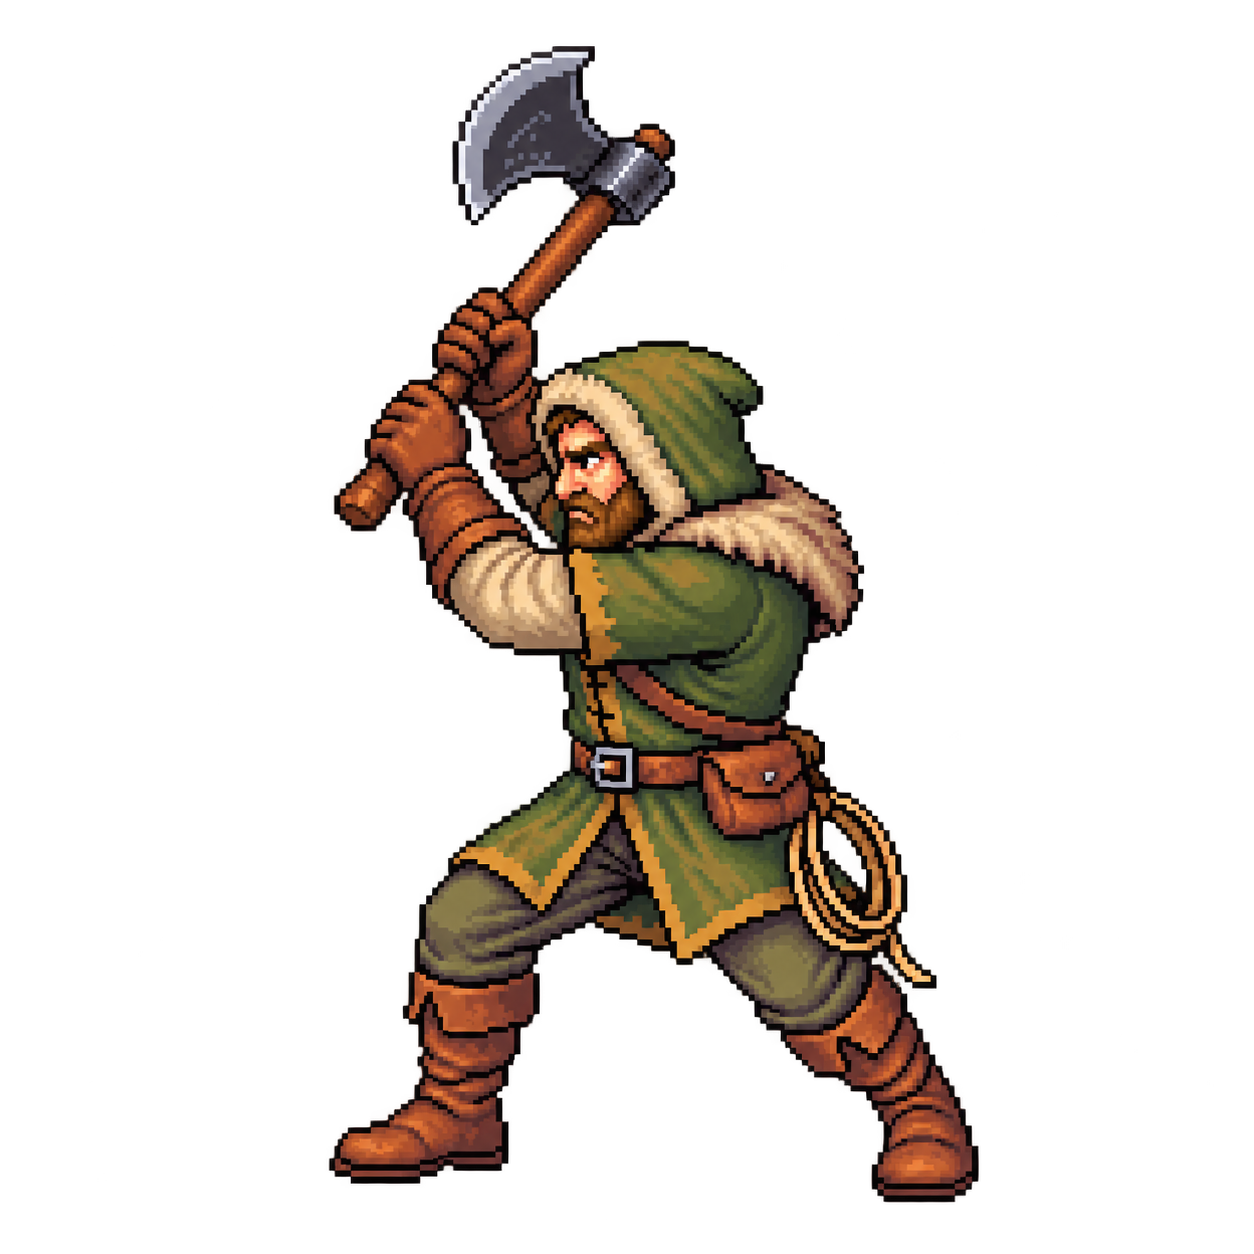
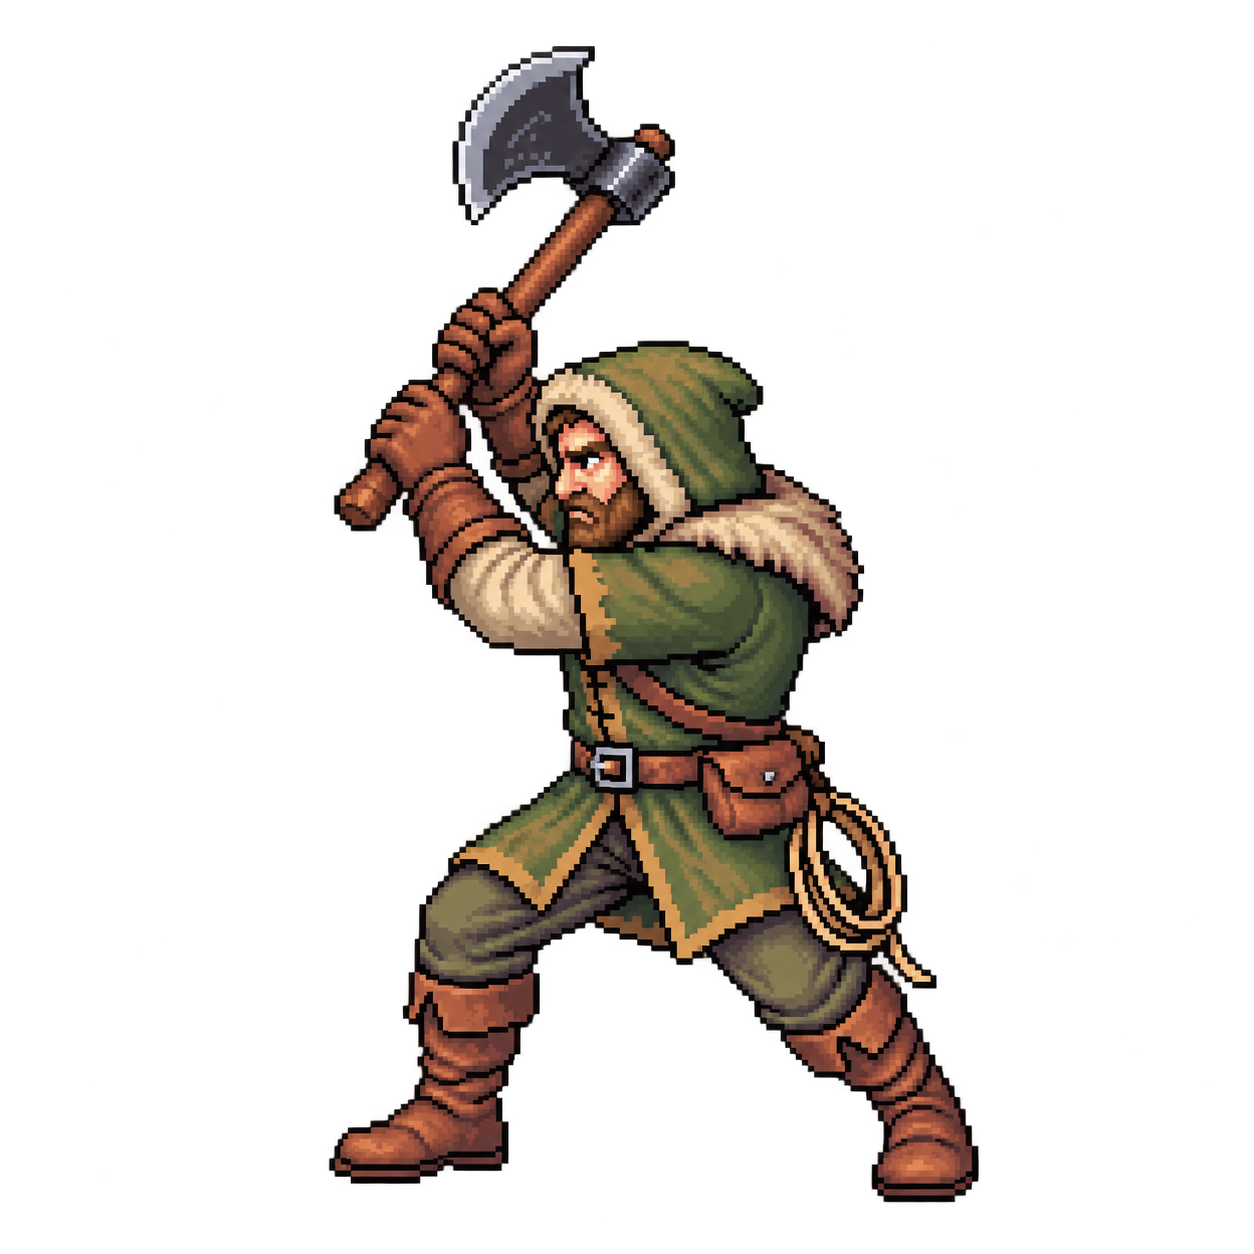
feat: add configurable hunter enemy

diff --git a/src/python_arcade/games/smart_snake/ui/hunter_renderer.py b/src/python_arcade/games/smart_snake/ui/hunter_renderer.py
@@ -1,0 +1,72 @@
+from pathlib import Path
+
+import pygame
+
+
+HUNTER_ASSETS_DIRECTORY = (
+    Path(__file__).resolve().parents[1]
+    / "assets"
+    / "images"
+    / "characters"
+    / "hunter"
+)
+
+HUNTER_IDLE_SPRITE_PATH = HUNTER_ASSETS_DIRECTORY / "hunter.png"
+
+HUNTER_RENDER_WIDTH = 400
+
+
+# Responsável pela representação visual do Hunter comum durante o gameplay.
+class HunterRenderer:
+
+    # Resumo: carrega e prepara o sprite parado do Hunter.
+    # Parâmetros: nenhum.
+    # Retorno: nenhum.
+    def __init__(self) -> None:
+        self.idle_sprite_surface = self.load_and_scale_sprite(
+            sprite_path=HUNTER_IDLE_SPRITE_PATH,
+        )
+
+    # Resumo: carrega e redimensiona o sprite do Hunter preservando sua proporção.
+    # Parâmetros: sprite_path representa o caminho do arquivo de imagem.
+    # Retorno: sprite dimensionado para o gameplay.
+    def load_and_scale_sprite(
+        self,
+        sprite_path: Path,
+    ) -> pygame.Surface:
+        original_sprite_surface = pygame.image.load(
+            sprite_path
+        ).convert_alpha()
+
+        original_width, original_height = (
+            original_sprite_surface.get_size()
+        )
+
+        scale_ratio = HUNTER_RENDER_WIDTH / original_width
+        render_height = int(original_height * scale_ratio)
+
+        return pygame.transform.scale(
+            original_sprite_surface,
+            (HUNTER_RENDER_WIDTH, render_height),
+        )
+
+    # Resumo: desenha o Hunter parado utilizando sua posição como centro.
+    # Parâmetros: screen representa a tela e position_x e position_y representam a posição do Hunter.
+    # Retorno: nenhum.
+    def render(
+        self,
+        screen: pygame.Surface,
+        position_x: float,
+        position_y: float,
+    ) -> None:
+        sprite_rectangle = self.idle_sprite_surface.get_rect(
+            center=(
+                round(position_x),
+                round(position_y),
+            )
+        )
+
+        screen.blit(
+            self.idle_sprite_surface,
+            sprite_rectangle,
+        )

diff --git a/tests/smart_snake/test_riverbank_scene.py b/tests/smart_snake/test_riverbank_scene.py
@@ -1160,3 +1160,50 @@ def test_riverbank_scene_does_not_repeat_game_over_event(
     )
     assert riverbank_scene.player_state.lives == 0
     assert riverbank_scene.is_game_over is True
+
+# Resumo: valida se a RiverbankScene renderiza os Hunters da área ativa.
+# Parâmetros: riverbank_scene fornece a cena e monkeypatch intercepta o renderer.
+# Retorno: nenhum.
+def test_riverbank_scene_renders_hunters(
+    riverbank_scene: RiverbankScene,
+    monkeypatch: pytest.MonkeyPatch,
+) -> None:
+    rendered_hunter_positions: list[tuple[float, float]] = []
+
+    def capture_hunter_render(
+        screen: pygame.Surface,
+        position_x: float,
+        position_y: float,
+    ) -> None:
+        rendered_hunter_positions.append(
+            (
+                position_x,
+                position_y,
+            )
+        )
+
+    monkeypatch.setattr(
+        riverbank_scene.hunter_renderer,
+        "render",
+        capture_hunter_render,
+    )
+
+    screen = pygame.Surface(
+        (SCREEN_WIDTH, SCREEN_HEIGHT)
+    )
+
+    riverbank_scene.render(
+        screen=screen,
+    )
+
+    active_area = riverbank_scene.stage_area_manager.get_active_area()
+
+    expected_hunter_positions = [
+        (
+            hunter.position_x,
+            hunter.position_y,
+        )
+        for hunter in active_area.hunters
+    ]
+
+    assert rendered_hunter_positions == expected_hunter_positions

diff --git a/src/python_arcade/games/smart_snake/scenes/riverbank_scene.py b/src/python_arcade/games/smart_snake/scenes/riverbank_scene.py
@@ -52,6 +52,9 @@ from python_arcade.games.smart_snake.ui.mouse_renderer import (
 from python_arcade.games.smart_snake.ui.player_hud_renderer import (
     PlayerHudRenderer,
 )
+from python_arcade.games.smart_snake.ui.hunter_renderer import (
+    HunterRenderer,
+)
 from python_arcade.games.smart_snake.ui.riverbank_environment_renderer import (
     RIVERBANK_ASSETS_DIRECTORY,
     RiverbankEnvironmentRenderer,
@@ -123,6 +126,7 @@ class RiverbankScene(BaseScene):
             road_center_y=RIVERBANK_ROAD_CENTER_Y,
         )
         self.mouse_renderer = MouseRenderer()
+        self.hunter_renderer = HunterRenderer()
         self.mouse_projectile_renderer = MouseProjectileRenderer()
         self.smart_snake_renderer = SmartSnakeRenderer()
 
@@ -345,6 +349,12 @@ class RiverbankScene(BaseScene):
                 position_x=mouse.position_x,
                 position_y=mouse.position_y,
                 direction=mouse.direction,
+            )
+        for hunter in active_area.hunters:
+            self.hunter_renderer.render(
+                screen=screen,
+                position_x=hunter.position_x,
+                position_y=hunter.position_y,
             )
         for mouse_projectile in (
             self.mouse_projectile_controller.active_projectiles

diff --git a/tests/smart_snake/test_stage_area.py b/tests/smart_snake/test_stage_area.py
@@ -6,6 +6,7 @@ from python_arcade.games.smart_snake.world.walkable_area import (
     WalkableArea,
     WalkableRegion,
 )
+from python_arcade.games.smart_snake.domain.hunter import Hunter
 
 
 # Resumo: valida se uma StageArea preserva sua configuração completa.
@@ -82,3 +83,35 @@ def test_stage_area_stores_scenery_objects() -> None:
     )
 
     assert stage_area.scenery_objects == scenery_objects
+
+# Resumo: valida se uma StageArea preserva sua coleção de Hunters.
+def test_stage_area_stores_hunters() -> None:
+    walkable_area = WalkableArea(
+        regions=(
+            WalkableRegion(
+                minimum_x=0.0,
+                maximum_x=1280.0,
+                minimum_y=370.0,
+                maximum_y=650.0,
+            ),
+        ),
+    )
+
+    hunter = Hunter(
+        hunter_id="hunter_01",
+        position_x=900.0,
+        position_y=500.0,
+    )
+
+    hunters = (hunter,)
+
+    stage_area = StageArea(
+        area_id="riverbank_area_01",
+        background_asset_name="riverbank_background.png",
+        player_spawn_x=65.0,
+        player_spawn_y=490.0,
+        walkable_area=walkable_area,
+        hunters=hunters,
+    )
+
+    assert stage_area.hunters == hunters

diff --git a/tests/smart_snake/test_hunter_renderer.py b/tests/smart_snake/test_hunter_renderer.py
@@ -1,0 +1,42 @@
+from collections.abc import Generator
+
+import pygame
+import pytest
+
+from python_arcade.games.smart_snake.ui.hunter_renderer import (
+    HUNTER_RENDER_WIDTH,
+    HunterRenderer,
+)
+
+
+# Resumo: prepara o Pygame para os testes do renderer sem abrir uma janela real.
+# Parâmetros: monkeypatch permite configurar temporariamente o driver de vídeo.
+# Retorno: ambiente temporário do Pygame durante os testes.
+@pytest.fixture
+def pygame_environment(
+    monkeypatch: pytest.MonkeyPatch,
+) -> Generator[None, None, None]:
+    monkeypatch.setenv("SDL_VIDEODRIVER", "dummy")
+
+    pygame.init()
+    pygame.display.set_mode((1, 1))
+
+    try:
+        yield
+    finally:
+        pygame.quit()
+
+
+# Resumo: valida se o sprite parado do Hunter mantém a largura configurada.
+# Parâmetros: pygame_environment garante que o Pygame esteja inicializado.
+# Retorno: nenhum.
+def test_hunter_renderer_preserves_idle_render_width(
+    pygame_environment: None,
+) -> None:
+    renderer = HunterRenderer()
+
+    assert (
+        renderer.idle_sprite_surface.get_width()
+        == HUNTER_RENDER_WIDTH
+    )
+    assert renderer.idle_sprite_surface.get_height() > 0

diff --git a/tests/smart_snake/test_riverbank_areas.py b/tests/smart_snake/test_riverbank_areas.py
@@ -6,6 +6,7 @@ from python_arcade.games.smart_snake.content.riverbank_areas import (
     RIVERBANK_ROAD_MINIMUM_Y,
     RIVERBANK_STAGE_AREAS,
     RIVERBANK_WALKABLE_AREA,
+    RIVERBANK_HUNTERS,
 )
 from python_arcade.games.smart_snake.content.riverbank_areas import (
     RIVERBANK_AREA_01,
@@ -148,3 +149,14 @@ def test_riverbank_area_01_configures_collision_boxes_for_obstacles() -> None:
         scenery_object.collision_box is None
         for scenery_object in non_blocking_objects
     )
+
+# Resumo: valida se a primeira área da Riverbank possui o Hunter configurado.
+def test_riverbank_area_01_stores_hunters() -> None:
+    assert RIVERBANK_AREA_01.hunters == RIVERBANK_HUNTERS
+    assert len(RIVERBANK_AREA_01.hunters) == 1
+
+    hunter = RIVERBANK_AREA_01.hunters[0]
+
+    assert hunter.hunter_id == "hunter_01"
+    assert hunter.position_x == 1050.0
+    assert hunter.position_y == 500.0

diff --git a/src/python_arcade/games/smart_snake/content/riverbank_areas.py b/src/python_arcade/games/smart_snake/content/riverbank_areas.py
@@ -8,7 +8,7 @@ from python_arcade.games.smart_snake.world.walkable_area import (
     WalkableRegion,
 )
 from python_arcade.games.smart_snake.world.collision_box import CollisionBox
-
+from python_arcade.games.smart_snake.domain.hunter import Hunter
 
 RIVERBANK_ROAD_MINIMUM_Y = 370.0
 RIVERBANK_ROAD_MAXIMUM_Y = 650.0
@@ -34,6 +34,14 @@ RIVERBANK_WALKABLE_AREA = WalkableArea(
             minimum_y=RIVERBANK_ROAD_MINIMUM_Y,
             maximum_y=RIVERBANK_ROAD_MAXIMUM_Y,
         ),
+    ),
+)
+
+RIVERBANK_HUNTERS = (
+    Hunter(
+        hunter_id="hunter_01",
+        position_x=1050.0,
+        position_y=500.0,
     ),
 )
 
@@ -116,6 +124,7 @@ RIVERBANK_AREA_01 = StageArea(
     player_spawn_y=490.0,
     walkable_area=RIVERBANK_WALKABLE_AREA,
     scenery_objects=RIVERBANK_SCENERY_OBJECTS,
+    hunters=RIVERBANK_HUNTERS,
 )
 
 

diff --git a/src/python_arcade/games/smart_snake/world/stage_area.py b/src/python_arcade/games/smart_snake/world/stage_area.py
@@ -5,7 +5,7 @@ from python_arcade.games.smart_snake.world.scenery_object import (
     SceneryObject,
 )
 from python_arcade.games.smart_snake.world.walkable_area import WalkableArea
-
+from python_arcade.games.smart_snake.domain.hunter import Hunter
 
 # Representa uma área navegável pertencente a uma fase do jogo.
 @dataclass(frozen=True)
@@ -16,3 +16,4 @@ class StageArea:
     player_spawn_y: float
     walkable_area: WalkableArea
     scenery_objects: tuple[SceneryObject, ...] = ()
+    hunters: tuple[Hunter, ...] = ()

diff --git a/tests/smart_snake/test_hunter.py b/tests/smart_snake/test_hunter.py
@@ -1,0 +1,14 @@
+from python_arcade.games.smart_snake.domain.hunter import Hunter
+
+
+# Resumo: valida a identidade e a posição inicial armazenadas pelo Hunter.
+def test_hunter_stores_identity_and_initial_position() -> None:
+    hunter = Hunter(
+        hunter_id="hunter_01",
+        position_x=900.0,
+        position_y=500.0,
+    )
+
+    assert hunter.hunter_id == "hunter_01"
+    assert hunter.position_x == 900.0
+    assert hunter.position_y == 500.0

diff --git a/src/python_arcade/games/smart_snake/domain/hunter.py b/src/python_arcade/games/smart_snake/domain/hunter.py
@@ -1,0 +1,9 @@
+from dataclasses import dataclass
+
+
+# Representa o estado de um Hunter comum durante o gameplay.
+@dataclass
+class Hunter:
+    hunter_id: str
+    position_x: float
+    position_y: float
